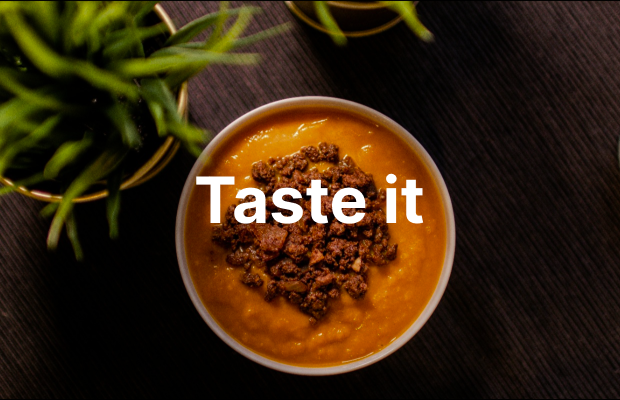
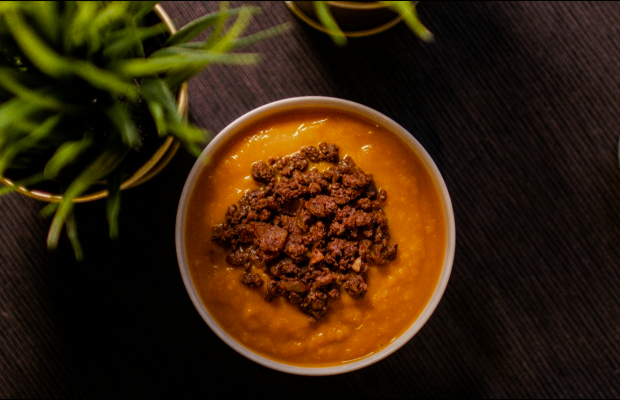
changes

Changed region(s): [[0.3065, 0.42, 0.7048, 0.57]]

diff --git a/index.html b/index.html
@@ -6,33 +6,92 @@
     <link rel="stylesheet" href="reset.css" />
     <link rel="stylesheet" href="style.css" />
     <link rel="shortcut icon" href="./images/logo.svg" type="image/x-icon" />
-    <title>home</title>
+    <link rel="preconnect" href="https://fonts.googleapis.com" />
+    <link rel="preconnect" href="https://fonts.gstatic.com" crossorigin />
+    <link
+      href="https://fonts.googleapis.com/css2?family=Inter:ital,opsz,wght@0,14..32,100..900;1,14..32,100..900&family=PT+Sans:ital,wght@0,400;0,700;1,400;1,700&family=Ubuntu:ital,wght@0,300;0,400;0,500;0,700;1,300;1,400;1,500;1,700&display=swap"
+      rel="stylesheet"
+    />
+    <title>Home</title>
   </head>
   <body>
     <div class="container">
       <!-- header -->
       <header>
         <a href="./index.html"></a>
-        <img src="./images/logo.svg" alt="logo" />
-        <nav>
-          <ul>
+        <img src="./images/logo.svg" alt="logo" class="logo" a />
+        <nav class="header-nav">
+          <ul class="header-ul">
             <li>
-              <a href="./index.html" class="active-link">home</a>
+              <a href="./index.html" class="active">Home</a>
             </li>
             <li>
-              <a href="#" class="nav-link">Menu</a>
+              <a href="#" class="inactive">Menu</a>
             </li>
             <li>
-              <a href="#" class="nav-link">Reservation</a>
+              <a href="#" class="inactive">Reservation</a>
             </li>
             <li>
-              <a href="#" class="nav-link">Contact</a>
+              <a href="#" class="inactive">Contact</a>
             </li>
           </ul>
         </nav>
-
-        <i class="fa-solid fa-bag-shopping header-cart" aria-hidden="true"></i>
+        <img src="./images/bag.svg" alt="shop" class="shop" />
       </header>
+      <!-- section -->
+      <section class="section1">
+        <img
+          src="images/pumpkin cover.png"
+          alt="pumpkin"
+          class=".section1-img"
+        />
+        <article class="title-box">
+          <h1>Taste the world’s best dishes</h1>
+        </article>
+      </section>
+      <!-- section2  -->
+      <section class="section2">
+        <article class="cards">
+          <img src="./images/pump1.png" alt="pumpkinsoup" class="pump1" />
+          <p class="text-on-card">Taste it</p>
+        </article>
+
+        <article class="cards">
+          <img src="./images/pump2.png" alt="pumpkinshake" class="pump2" />
+          <p class="text-on-card">Taste it</p>
+        </article>
+      </section>
+      <!-------- footer ------->
+      <footer class="site-footer">
+        <ul class="footer-clicks">
+          <li><a href="#">Food</a></li>
+          <li><a href="#">Menu</a></li>
+          <li><a href="#">Catering Nutritionals and Allergens</a></li>
+          <li><a href="#">Good Slice Pizza</a></li>
+        </ul>
+        <ul class="footer-links">
+          <li>
+            <a href="https://www.instagram.com/" target="_blank">
+              <img src="./images/instagram.svg" alt="instagram"
+            /></a>
+          </li>
+          <li>
+            <a href="https://www.linkedin.com/" target="_blank">
+              <img src="./images/linkedin.png" alt="linkedin" />
+            </a>
+          </li>
+          <li>
+            <a href="https://www.facebook.com/" target="_blank">
+              <img src="./images/facebook.svg" alt="facebook" />
+            </a>
+          </li>
+          <li>
+            <a href="https://www.tiktok.com/explore" target="_blank">
+              <img src="./images/tiktok.png" alt="tiktok" />
+            </a>
+          </li>
+        </ul>
+      </footer>
     </div>
   </body>
 </html>

diff --git a/style.css b/style.css
@@ -1,0 +1,136 @@
+body {
+  font-family: "Inter", sans-serif;
+}
+
+/* 
+container */
+.container {
+  width: min(100%, 1440px);
+  margin: auto;
+  padding: 0;
+}
+
+/* header */
+
+header {
+  background-color: #372d23;
+  padding: 32px 80px;
+  display: flex;
+  justify-content: space-between;
+  align-items: center;
+  position: fixed;
+  max-width: inherit;
+  width: inherit;
+  top: 0;
+  left: 50%;
+  transform: translateX(-50%);
+  z-index: 1000;
+}
+
+.header-ul {
+  display: flex;
+  column-gap: 48px;
+}
+.active,
+.inactive {
+  font-weight: 700;
+  font-size: 24px;
+  line-height: 32px;
+  letter-spacing: 0%;
+  color: #fcc21b;
+}
+.active {
+  color: #ed6c30;
+}
+
+/* ----- section1 ----- */
+
+.section1 {
+  height: 640px;
+  position: relative;
+  margin-top: 128px;
+}
+.section1-img {
+  object-fit: cover;
+  width: 100%;
+  height: 100%;
+  position: relative;
+}
+.title-box {
+  width: 762px;
+  height: 208px;
+  border-radius: 10px;
+  background-color: #fcc21b99;
+  box-shadow: -4px -4px 6px 0px #000000;
+  position: absolute;
+  top: 50%;
+  left: 50%;
+  transform: translate(-50%, -50%);
+  padding-top: 76px;
+}
+h1 {
+  font-weight: 800;
+  font-size: 48px;
+  line-height: 56px;
+  color: #ffffff;
+  text-shadow: 6px 2px 4px #000000;
+  letter-spacing: 0%;
+  text-align: center;
+}
+
+/* section2 */
+
+.section2 {
+  padding: 80px;
+  justify-content: center;
+  display: flex;
+  gap: 40px;
+  background-color: #ffe18a;
+}
+.cards {
+  width: 100%;
+  height: 400px;
+  position: relative;
+  /* display: flex;
+  gap: 40px;
+  justify-content: center; */
+}
+.pump1,
+.pump2 {
+  width: 100%;
+  height: 100%;
+  object-fit: cover;
+}
+.text-on-card {
+  font-weight: 700;
+  font-size: 64px;
+  line-height: 72px;
+  color: #ffffff;
+  position: absolute;
+  left: 50%;
+  top: 50%;
+  transform: translate(-50%, -50%);
+  /* width: 100%;
+  text-align: center; */
+}
+/* Footer */
+.site-footer {
+  padding: 32px 80px;
+  background-color: #372d23;
+  display: flex;
+  justify-content: space-between;
+}
+.footer-clicks a {
+  font-size: 16px;
+  font-weight: 400;
+  font-size: 16px;
+  line-height: 24px;
+  letter-spacing: 0%;
+  color: #fcc21b;
+  text-align: center;
+}
+
+.footer-links {
+  display: flex;
+  gap: 24px;
+}

diff --git a/reset.css b/reset.css
@@ -1,4 +1,3 @@
-/* http://meyerweb.com/eric/tools/css/reset/ v2.0 | 20110126 License: none (public domain) */
 html,
 body,
 div,
@@ -86,7 +85,8 @@ video {
   font-size: 100%;
   font: inherit;
   vertical-align: baseline;
-} /* HTML5 display-role reset for older browsers */
+}
+/* HTML5 display-role reset for older browsers */
 article,
 aside,
 details,
@@ -124,7 +124,6 @@ table {
 }
 a {
   text-decoration: none;
-  color: #000000;
 }
 * {
   box-sizing: border-box;
